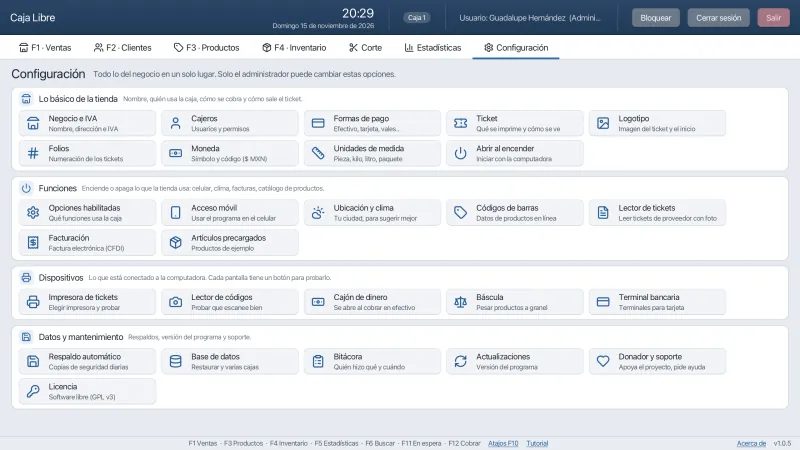
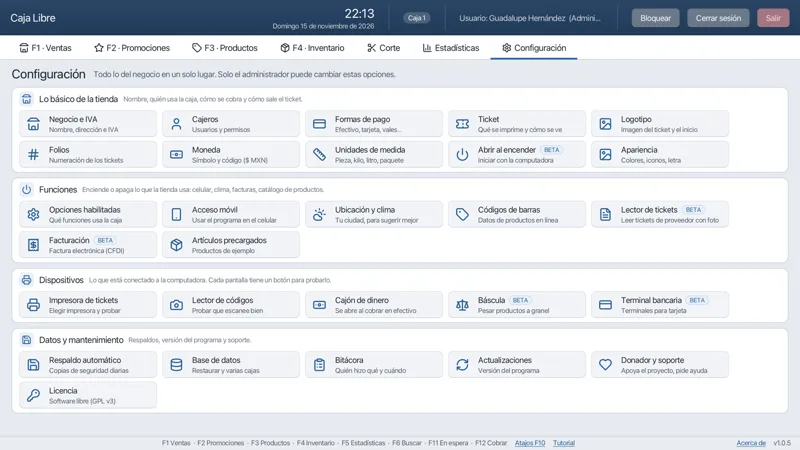
Sitio: sin fiado ni Clientes por ahora; Promociones en su pestaña F2 con captura propia y capturas nuevas con la barra de pestañas actual

diff --git a/sitio/index.html b/sitio/index.html
@@ -132,7 +132,7 @@
           <a class="btn btn-secundario btn-grande" href="#pantallas">Ver cómo funciona<svg aria-hidden="true" class="icono"><use href="#i-flecha"/></svg></a>
         </div>
         <p class="hero-nota">Para abarrotes, verdulerías, misceláneas, papelerías y cualquier negocio de mostrador. <a href="#requisitos">Funciona en PCs viejas</a>.</p>
-        <a class="aviso-version" href="#novedades"><svg aria-hidden="true" class="icono"><use href="#i-chispas"/></svg>Próxima versión 1.0.5: fiado, devoluciones, IVA por producto y más</a>
+        <a class="aviso-version" href="#novedades"><svg aria-hidden="true" class="icono"><use href="#i-chispas"/></svg>Próxima versión 1.0.5: devoluciones, IVA por producto, promociones a la mano y más</a>
       </div>
       <div class="hero-visual reveal retraso-1">
         <div class="ventana">
@@ -234,7 +234,7 @@
         <article class="tarjeta reveal retraso-2"><div class="ico"><svg aria-hidden="true" class="icono"><use href="#i-cpu"/></svg></div><h3>Corre en PCs viejas</h3><p>Hecho para equipos con 2–4 GB de RAM, disco duro mecánico y pantalla de 1024×768. También Mac y Linux.</p></article>
         <article class="tarjeta reveal"><div class="ico"><svg aria-hidden="true" class="icono"><use href="#i-bd"/></svg></div><h3>Respaldos automáticos</h3><p>Vienen encendidos: una copia al día y se guardan las últimas siete. Restauras desde Configuración y exportas cualquier tabla a CSV, Excel o PDF.</p></article>
         <article class="tarjeta reveal retraso-1"><div class="ico"><svg aria-hidden="true" class="icono"><use href="#i-candado"/></svg></div><h3>Bloquear y cambiar de cajero</h3><p>Con <kbd>Ctrl</kbd>+<kbd>L</kbd> la caja vuelve al inicio de sesión sin cerrar el programa. Si había un ticket a medias, queda en espera.</p></article>
-        <article class="tarjeta enlace-nuevo reveal retraso-2"><div class="ico verde"><svg aria-hidden="true" class="icono"><use href="#i-chispas"/></svg></div><h3>Y lo que viene en la 1.0.5</h3><p>Fiado con abonos, devoluciones con vale, IVA por producto, alta por código de barras, caducidades y más. <a href="#novedades">Ver las novedades</a>.</p></article>
+        <article class="tarjeta enlace-nuevo reveal retraso-2"><div class="ico verde"><svg aria-hidden="true" class="icono"><use href="#i-chispas"/></svg></div><h3>Y lo que viene en la 1.0.5</h3><p>Devoluciones con vale, IVA por producto, alta por código de barras, caducidades, promociones en su propia pestaña y más. <a href="#novedades">Ver las novedades</a>.</p></article>
       </div>
     </div>
   </section>
@@ -251,7 +251,7 @@
         <article class="grupo-nuevo reveal">
           <h3><svg aria-hidden="true" class="icono"><use href="#i-tienda"/></svg>Vender y cobrar</h3>
           <ul>
-            <li><b>Clientes con crédito (fiado).</b> Nueva pestaña Clientes (<kbd>F2</kbd>). Al cobrar eliges «A cuenta», sola o junto con efectivo. Cada cliente tiene su límite y su estado de cuenta, y los abonos entran al corte.</li>
+            <li><b>Promociones en su propia pestaña.</b> Ahora están junto a Ventas, en <kbd>F2</kbd>: ves de un vistazo qué ofertas hay, cuáles están vigentes y cuántas piezas quedan de las que son hasta agotar.</li>
             <li><b>Devoluciones de artículos.</b> Regresas algunos artículos de una venta y devuelves el dinero en efectivo o con un vale de compra impreso con código de barras. Lo devuelto puede volver al inventario o quedar como merma. El vale se usa en el cobro completo o en partes.</li>
             <li><b>Producto común.</b> Con <kbd>Ctrl</kbd>+<kbd>P</kbd> vendes algo que no está en tu catálogo: escribes nombre, precio y cantidad, y listo.</li>
             <li><b>IVA por producto.</b> Cada producto puede llevar 16 %, 0 % o exento, o usar el de la tienda. También lo cambias para todo un departamento de una vez. El corte separa el IVA por tasa.</li>
@@ -271,7 +271,7 @@
             <li><b>Estadísticas con «Hoy».</b> Al abrir ves lo vendido hoy contra ayer, la semana pasada y hace un año, a la misma hora. Lo demás va en pestañas: Resumen, Horarios pico, Cajeros y horas, Productos más vendidos, Reabastecimiento, Recomendaciones y Clima.</li>
             <li><b>Reportes netos.</b> El corte y los reportes ya restan las devoluciones del día.</li>
             <li><b>Cajón con motivo y bitácora.</b> Quien no tiene permiso de abrir el cajón escribe el motivo y si entra o sale dinero. Cada apertura queda registrada y el administrador la ve en la pantalla Bitácora.</li>
-            <li><b>Varias cajas sin dobles cobros.</b> <span class="pastilla-beta">Beta</span> Cancelar una venta o recibir una orden desde dos cajas a la vez ya no cuenta dos veces, y el fiado y los vales respetan su límite aunque cobren dos cajas al mismo tiempo.</li>
+            <li><b>Varias cajas sin dobles cobros.</b> <span class="pastilla-beta">Beta</span> Cancelar una venta o recibir una orden desde dos cajas a la vez ya no cuenta dos veces, y los vales respetan su saldo aunque cobren dos cajas al mismo tiempo.</li>
           </ul>
         </article>
         <article class="grupo-nuevo reveal retraso-1">
@@ -301,7 +301,7 @@
       <div class="vista-rapida reveal" id="vista-rapida">
         <div class="pestanas" role="tablist" aria-label="Pantallas del programa">
           <button type="button" role="tab" aria-selected="true" aria-controls="vr-ventas" id="tab-ventas"><svg aria-hidden="true" class="icono"><use href="#i-tienda"/></svg>Ventas</button>
-          <button type="button" role="tab" aria-selected="false" aria-controls="vr-clientes" id="tab-clientes"><svg aria-hidden="true" class="icono"><use href="#i-usuarios"/></svg>Clientes</button>
+          <button type="button" role="tab" aria-selected="false" aria-controls="vr-promociones" id="tab-promociones"><svg aria-hidden="true" class="icono"><use href="#i-porcentaje"/></svg>Promociones</button>
           <button type="button" role="tab" aria-selected="false" aria-controls="vr-productos" id="tab-productos"><svg aria-hidden="true" class="icono"><use href="#i-paquete"/></svg>Productos</button>
           <button type="button" role="tab" aria-selected="false" aria-controls="vr-inventario" id="tab-inventario"><svg aria-hidden="true" class="icono"><use href="#i-camion"/></svg>Inventario</button>
           <button type="button" role="tab" aria-selected="false" aria-controls="vr-corte" id="tab-corte"><svg aria-hidden="true" class="icono"><use href="#i-tijeras"/></svg>Corte</button>
@@ -312,9 +312,9 @@
           <div class="ventana"><div class="ventana-barra"><i></i><i></i><i></i><span>F1 · Ventas</span></div><img src="img/capturas/ventas.webp" alt="Pestaña Ventas con un ticket en captura, el total en grande y sugerencias de venta abajo" width="1600" height="900" loading="lazy"></div>
           <p class="pie-panel">Rápida. Clara. Con el teclado.</p>
         </div>
-        <div class="panel" id="vr-clientes" role="tabpanel" aria-labelledby="tab-clientes" hidden>
-          <div class="ventana"><div class="ventana-barra"><i></i><i></i><i></i><span>F2 · Clientes</span></div><img src="img/capturas/clientes.webp" alt="Pestaña Clientes: tres clientes con lo que deben, su límite de crédito y cuánto se les puede fiar todavía; total por cobrar $317.00" width="1600" height="900" loading="lazy"></div>
-          <p class="pie-panel">Quién te debe, cuánto y hasta cuánto le puedes fiar. <span class="pastilla-version">1.0.5</span></p>
+        <div class="panel" id="vr-promociones" role="tabpanel" aria-labelledby="tab-promociones" hidden>
+          <div class="ventana"><div class="ventana-barra"><i></i><i></i><i></i><span>F2 · Promociones</span></div><img src="img/capturas/promociones.webp" alt="Pestaña Promociones: 3x2 en Ruffles, 10 % en Limpieza el fin de semana, jitomate a $26 los martes y agua a 10 pesos hasta agotar, con su vigencia y estado" width="1600" height="900" loading="lazy"></div>
+          <p class="pie-panel">Todas tus ofertas en un lugar, con su vigencia y si están activas ahora. <span class="pastilla-version">1.0.5</span></p>
         </div>
         <div class="panel" id="vr-productos" role="tabpanel" aria-labelledby="tab-productos" hidden>
           <div class="ventana"><div class="ventana-barra"><i></i><i></i><i></i><span>F3 · Productos</span></div><img src="img/capturas/producto-alta.webp" alt="Alta de un producto nuevo: al escribir el código, el programa encontró «Maruchan habanero 64 g» en su catálogo y ofrece usar esos datos" width="1600" height="900" loading="lazy"></div>
@@ -372,32 +372,32 @@
             <li><svg aria-hidden="true" class="icono"><use href="#i-check"/></svg><span>Esc regresa al ticket sin perder nada.</span></li>
             <li><svg aria-hidden="true" class="icono"><use href="#i-check"/></svg><span>Con impresora térmica, imprime el ticket y abre el cajón.</span></li>
             <li><svg aria-hidden="true" class="icono"><use href="#i-check"/></svg><span>Reimprime el último ticket con <kbd>Ctrl</kbd>+<kbd>I</kbd>.</span></li>
-            <li><svg aria-hidden="true" class="icono"><use href="#i-check"/></svg><span>A cuenta (fiado) y vale de la tienda, solos o junto con efectivo. <span class="pastilla-version">1.0.5</span></span></li>
+            <li><svg aria-hidden="true" class="icono"><use href="#i-check"/></svg><span>Vale de la tienda, solo o junto con efectivo. <span class="pastilla-version">1.0.5</span></span></li>
           </ul>
         </div>
         <div class="pantalla-visual reveal retraso-1">
           <div class="ventana" style="max-width:460px;margin:0 auto">
             <div class="ventana-barra"><i></i><i></i><i></i><span>Cobrar</span></div>
-            <img src="img/capturas/cobro.webp" alt="Ventana de cobro: total a cobrar $237.75, efectivo recibido $500.00, campos de tarjeta, a cuenta y vale de la tienda, billetes rápidos y cambio de $262.25" width="640" height="913" loading="lazy">
+            <img src="img/capturas/cobro.webp" alt="Ventana de cobro: total a cobrar $237.75, efectivo recibido $500.00, campos de tarjeta y vale de la tienda, billetes rápidos y cambio de $262.25" width="640" height="781" loading="lazy">
           </div>
         </div>
       </div>
 
       <div class="pantalla">
         <div class="pantalla-texto reveal">
-          <span class="sobretitulo">Clientes y fiado <span class="pastilla-version">1.0.5</span></span>
-          <h3>El fiado, sin libreta</h3>
-          <p>Das de alta al cliente con su límite. Al cobrar eliges «A cuenta» y la venta se le anota sola. Cuando viene a pagar registras el abono, y su estado de cuenta te dice qué se llevó y cuándo.</p>
+          <span class="sobretitulo">Promociones <span class="pastilla-version">1.0.5</span></span>
+          <h3>Las ofertas, a una tecla</h3>
+          <p>Con <kbd>F2</kbd> abres la pestaña Promociones: 2×1 o 3×2, porcentaje de descuento o precio especial, para un producto o un departamento completo. Tú decides las fechas, los días de la semana, el horario y si es hasta agotar.</p>
           <ul>
-            <li><svg aria-hidden="true" class="icono"><use href="#i-check"/></svg><span>Si alguien quiere pasarse de su límite, hace falta la autorización del administrador.</span></li>
-            <li><svg aria-hidden="true" class="icono"><use href="#i-check"/></svg><span>Los abonos en efectivo cuentan en el corte del día.</span></li>
-            <li><svg aria-hidden="true" class="icono"><use href="#i-check"/></svg><span>Desde el teléfono ves quién te debe y le puedes llamar.</span></li>
+            <li><svg aria-hidden="true" class="icono"><use href="#i-check"/></svg><span>Se aplican solas al cobrar y el ticket muestra el nombre de la promoción.</span></li>
+            <li><svg aria-hidden="true" class="icono"><use href="#i-check"/></svg><span>Ves cuáles están vigentes ahora y cuántas piezas quedan de las de hasta agotar.</span></li>
+            <li><svg aria-hidden="true" class="icono"><use href="#i-check"/></svg><span>Los cajeros sin permiso solo las consultan.</span></li>
           </ul>
         </div>
         <div class="pantalla-visual reveal retraso-1">
           <div class="ventana">
-            <div class="ventana-barra"><i></i><i></i><i></i><span>F2 · Clientes</span></div>
-            <img src="img/capturas/clientes.webp" alt="Pestaña Clientes: Juan Pérez debe $96.00, Maestra Carmen $111.00 y Rosa Martínez $110.00, cada uno con su límite y lo que todavía se le puede fiar" width="1600" height="900" loading="lazy">
+            <div class="ventana-barra"><i></i><i></i><i></i><span>F2 · Promociones</span></div>
+            <img src="img/capturas/promociones.webp" alt="Pestaña Promociones con cuatro ofertas de ejemplo, su tipo, valor, vigencia y estado, y el formulario para crear una nueva" width="1600" height="900" loading="lazy">
           </div>
         </div>
       </div>
@@ -523,13 +523,13 @@
           <h3>El corte del día en una sola pantalla</h3>
           <p>Dinero inicial, ventas en efectivo, tarjeta, transferencia y vales, entradas y salidas de efectivo, lo que debe haber en el cajón, canceladas, ganancia (solo para quien tiene permiso de verla) y productos que se quedaron bajos. Corte del turno o del día, por caja o general.</p>
           <ul>
-            <li><svg aria-hidden="true" class="icono"><use href="#i-check"/></svg><span>Con la 1.0.5 también muestra lo vendido a cuenta, los abonos, las devoluciones y las ventas netas.</span></li>
+            <li><svg aria-hidden="true" class="icono"><use href="#i-check"/></svg><span>Con la 1.0.5 también muestra las devoluciones, el IVA por tasa y las ventas netas.</span></li>
           </ul>
         </div>
         <div class="pantalla-visual reveal retraso-1">
           <div class="ventana">
             <div class="ventana-barra"><i></i><i></i><i></i><span>Corte</span></div>
-            <img src="img/capturas/corte.webp" alt="Pestaña Corte del turno: fondo inicial, ventas en efectivo, abonos de clientes, total esperado en caja, IVA, ventas a cuenta, devoluciones, ventas por departamento y ventas netas del turno" width="1600" height="900" loading="lazy">
+            <img src="img/capturas/corte.webp" alt="Pestaña Corte del turno: fondo inicial, ventas en efectivo, entradas y salidas, total esperado en caja, IVA, devoluciones, ventas por departamento y ventas netas del turno" width="1600" height="900" loading="lazy">
           </div>
         </div>
       </div>
@@ -720,7 +720,7 @@
         <h3><svg aria-hidden="true" class="icono"><use href="#i-teclado"/></svg>Atajos de teclado (pulsa <kbd>F10</kbd> en el programa para verlos)</h3>
         <dl>
           <dt><kbd>F1</kbd></dt><dd>Ir a Ventas</dd>
-          <dt><kbd>F2</kbd></dt><dd>Ir a Clientes (fiado y abonos) <span class="pastilla-version">1.0.5</span></dd>
+          <dt><kbd>F2</kbd></dt><dd>Ir a Promociones <span class="pastilla-version">1.0.5</span></dd>
           <dt><kbd>F3</kbd></dt><dd>Ir a Productos</dd>
           <dt><kbd>F4</kbd></dt><dd>Ir a Inventario</dd>
           <dt><kbd>F5</kbd></dt><dd>Ir a Estadísticas</dd>
@@ -868,7 +868,6 @@
         <details><summary>¿Cómo actualizo? ¿Pierdo mis datos?<svg aria-hidden="true" class="icono"><use href="#i-abajo"/></svg></summary><div class="resp"><p>Cuando hay versión nueva, el programa muestra un enlace discreto en la barra de abajo (nunca descarga ni instala nada solo). Bajas el instalador, lo ejecutas encima del anterior y listo: la base de datos y la configuración no se tocan. En Mac arrastras la app nueva sobre la anterior; en Linux instalas el paquete nuevo.</p></div></details>
         <details><summary>¿Puedo tener varias cajas?<svg aria-hidden="true" class="icono"><use href="#i-abajo"/></svg></summary><div class="resp"><p>Sí. Una computadora de la tienda corre el servidor PostgreSQL (gratis) y las demás cajas se conectan a él por la red local; las existencias y los cortes se comparten. El programa trae la migración desde una sola caja y una guía paso a paso. Para una tienda con una sola caja no necesitas nada de esto. Esta función sigue en Beta: funciona, pero todavía la estamos probando en tiendas con varias cajas.</p></div></details>
         <details><summary>¿Puedo facturar (CFDI)?<svg aria-hidden="true" class="icono"><use href="#i-abajo"/></svg></summary><div class="resp"><p>Sí, factura por venta y factura global con CFDI 4.0 a través de Facturama, un proveedor autorizado por el SAT. Necesitas contratar una cuenta con ellos (ese servicio sí tiene costo, que le pagas a Facturama); el programa solo se conecta con tus credenciales. Si no facturas, simplemente no lo configuras. La facturación sigue en Beta: pruébala con calma antes de depender de ella.</p></div></details>
-        <details><summary>¿Puedo llevar el fiado de mis clientes?<svg aria-hidden="true" class="icono"><use href="#i-abajo"/></svg></summary><div class="resp"><p>Con la versión 1.0.5, sí. Cada cliente tiene su límite, al cobrar eliges «A cuenta» y registras los abonos cuando paga. La versión que se descarga hoy (1.0.4) todavía no lo trae; cuando salga la 1.0.5, el programa te avisa para actualizar.</p></div></details>
         <details><summary>¿Sirve para verdulería, papelería o tortillería?<svg aria-hidden="true" class="icono"><use href="#i-abajo"/></svg></summary><div class="resp"><p>Sí. Maneja venta por pieza y a granel (kilos con decimales, báscula opcional), productos sin código de barras con foto, departamentos y promociones. Lo único que no es: un sistema de restaurante con mesas y comandas.</p></div></details>
         <details><summary>¿Y si se descompone la computadora?<svg aria-hidden="true" class="icono"><use href="#i-abajo"/></svg></summary><div class="resp"><p>Si tenías respaldos activos, instalas el programa en la computadora nueva y restauras el último respaldo desde Configuración: vuelven productos, ventas, cortes y usuarios. Por eso insistimos tanto en guardar copias fuera del equipo.</p></div></details>
         <details><summary>¿Quién hace esto y por qué debería confiar?<svg aria-hidden="true" class="icono"><use href="#i-abajo"/></svg></summary><div class="resp"><p>Lo hace una sola persona, <span data-dato="autor.nombre">Elias Oziel Sánchez Fernández</span>, y todo el código es público en GitHub: cualquiera puede revisarlo. Las contraseñas se guardan cifradas, hay bitácora de todo lo que hacen los usuarios, y el programa no se comunica con ningún servidor salvo en los casos opcionales que se explican arriba. En <a href="creador.html">Sobre el creador</a> están su contacto y sus otros proyectos.</p></div></details>
